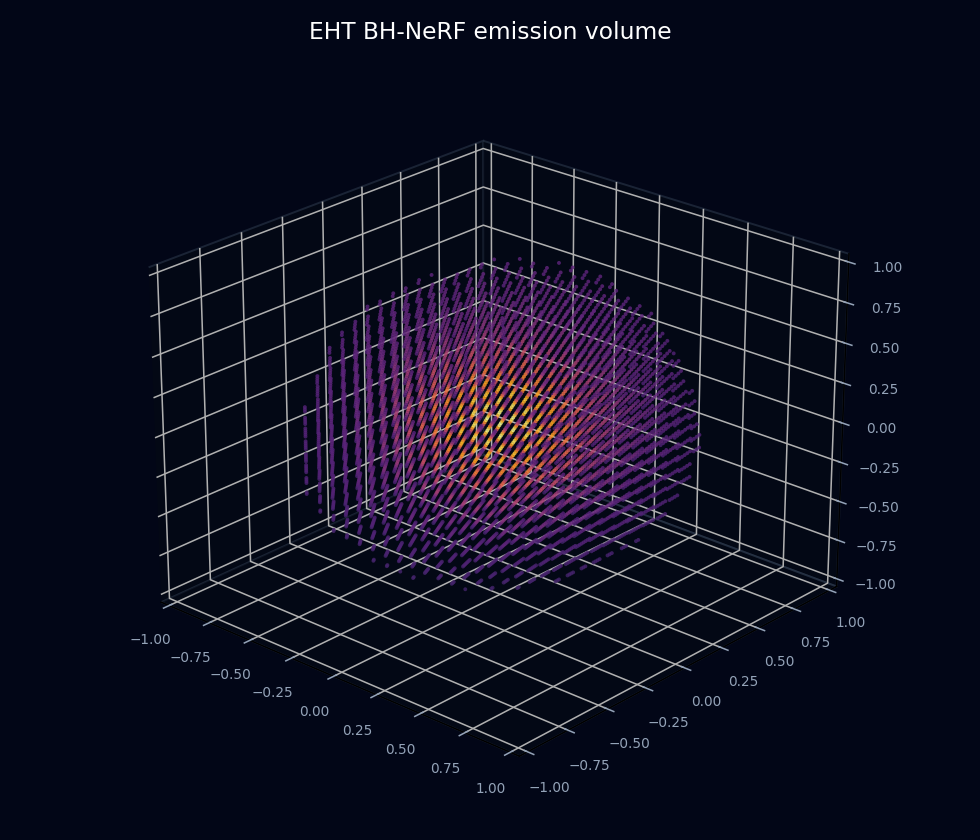
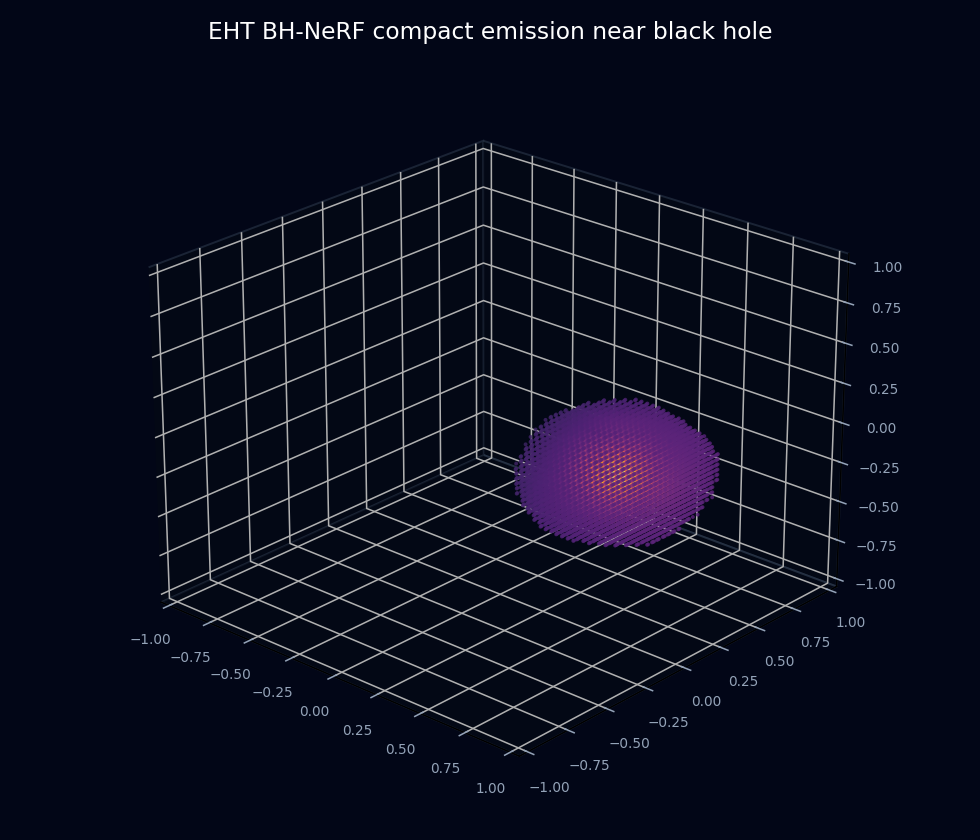
Improve EHT tomography 3D context

Changed region(s): [[0.3061, 0.3095, 0.7347, 0.7119], [0.2143, 0.031, 0.7959, 0.0619]]

diff --git a/src/components/ThreeDTaskViewer.tsx b/src/components/ThreeDTaskViewer.tsx
@@ -53,8 +53,13 @@ function pointSizeForMode(mode: string): number {
   return 0.038;
 }
 
-function fitVisiblePositions(positions: number[]): number[] {
-  if (positions.length === 0) return positions;
+function defaultThresholdForTask(taskName: string): number {
+  if (taskName === 'eht_black_hole_tomography') return 0.02;
+  return 0.08;
+}
+
+function fitVisiblePositions(positions: number[], preserveDomain: boolean): number[] {
+  if (positions.length === 0 || preserveDomain) return positions;
 
   const min = [Infinity, Infinity, Infinity];
   const max = [-Infinity, -Infinity, -Infinity];
@@ -92,7 +97,10 @@ function createPointCloud(payload: PointCloudPayload, threshold: number) {
   }
 
   const geometry = new THREE.BufferGeometry();
-  geometry.setAttribute('position', new THREE.Float32BufferAttribute(fitVisiblePositions(positions), 3));
+  geometry.setAttribute('position', new THREE.Float32BufferAttribute(
+    fitVisiblePositions(positions, Boolean(payload.bounds?.preserve_domain)),
+    3
+  ));
   geometry.setAttribute('color', new THREE.Float32BufferAttribute(colors, 3));
   geometry.computeBoundingSphere();
 
@@ -113,6 +121,34 @@ function createPointCloud(payload: PointCloudPayload, threshold: number) {
 
 function addContextGeometry(scene: THREE.Scene, payload: PointCloudPayload) {
   addFrame(scene);
+
+  if (payload.task === 'eht_black_hole_tomography') {
+    const sphereGeometry = new THREE.SphereGeometry(0.22, 32, 18);
+    scene.add(
+      new THREE.Mesh(
+        sphereGeometry,
+        new THREE.MeshBasicMaterial({ color: 0x020617 })
+      )
+    );
+    scene.add(
+      new THREE.Mesh(
+        sphereGeometry,
+        new THREE.MeshBasicMaterial({ color: 0x94a3b8, wireframe: true, transparent: true, opacity: 0.32 })
+      )
+    );
+
+    const orbit = new THREE.Mesh(
+      new THREE.TorusGeometry(0.62, 0.008, 8, 128),
+      new THREE.MeshBasicMaterial({ color: 0xf59e0b, transparent: true, opacity: 0.52 })
+    );
+    scene.add(orbit);
+
+    const disk = new THREE.Mesh(
+      new THREE.CircleGeometry(0.78, 96),
+      new THREE.MeshBasicMaterial({ color: 0xf97316, transparent: true, opacity: 0.06, side: THREE.DoubleSide })
+    );
+    scene.add(disk);
+  }
 
   if (payload.mode === 'heightfield') {
     const plane = new THREE.Mesh(
@@ -144,11 +180,12 @@ export default function ThreeDTaskViewer({ taskName }: Props) {
   const controlsRef = useRef<OrbitControls | null>(null);
   const [payload, setPayload] = useState<PointCloudPayload | null>(null);
   const [error, setError] = useState<string | null>(null);
-  const [threshold, setThreshold] = useState(0.08);
+  const [threshold, setThreshold] = useState(defaultThresholdForTask(taskName));
 
   useEffect(() => {
     setPayload(null);
     setError(null);
+    setThreshold(defaultThresholdForTask(taskName));
     if (!hasThreeDView(taskName)) return;
 
     fetch(`${BASE_PATH}/data/3d/${taskName}.json`)